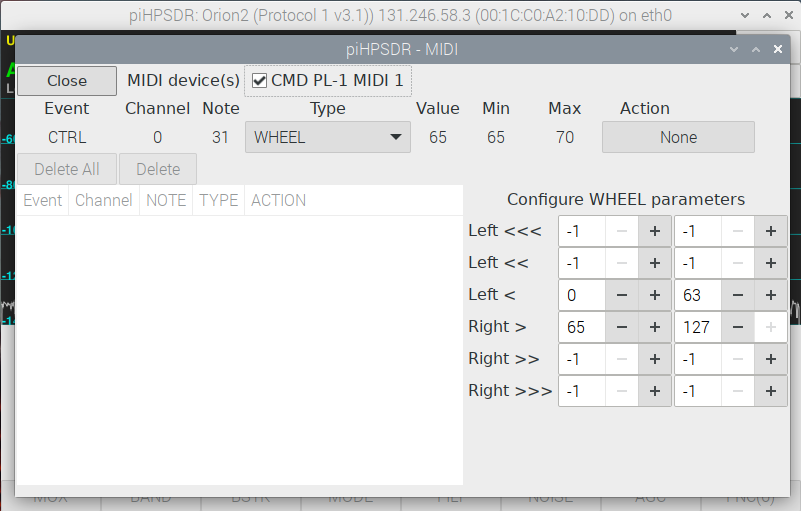
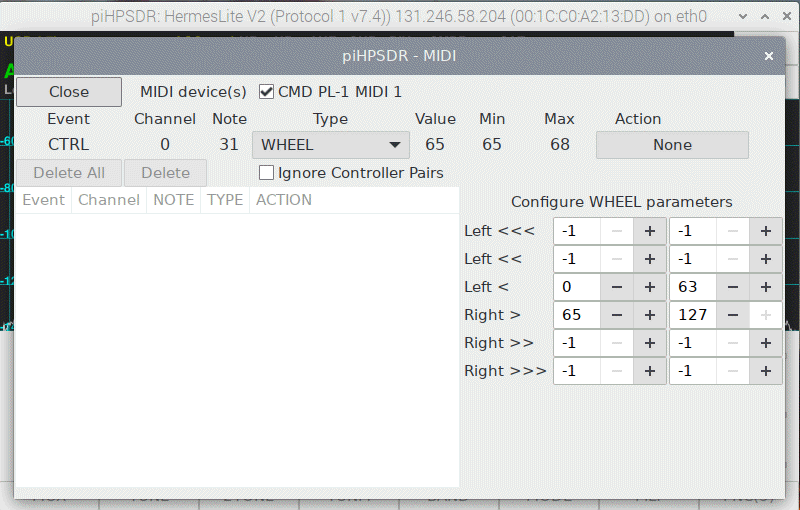
Manual: added secion on the "Ignore Controller Pairs" MIDI option, and made new figures for PureSignal using the new two-tone frequencies.

Changed region(s): [[0.0, 0.0, 1.0, 1.0], [0.75, 0.2059, 0.9375, 0.2941], [0.5625, 0.5, 0.6562, 0.5294]]

diff --git a/release/LatexManual/piHPSDR-Manual.tex b/release/LatexManual/piHPSDR-Manual.tex
@@ -2420,7 +2420,7 @@ two peaks on the TX panadapter during the two-tone experiment.
 \label{fig:PSoff}
 \end{figure}
 
-To demonstrate what happens, I show an example performed with a HermesLite-II
+To demonstrate what happens, I show an example performed with a Hermes\-Lite-II
 radio running P1. Checking both \rett{Enable PS} and
 \rett{Auto Attenuation}, and hitting the \rett{Two Tone} button, it needs only few
 seconds to stabilize and then Fig. \ref{fig:PSnomon} results, where the TX
@@ -2444,9 +2444,9 @@ is shown in Fig. \ref{fig:PSoff}. After hitting that button, IM3 satellites imme
 grow and rise to about $-40$ dbM (which means IM3
 about $-34$ dBc), which is s reflects the intrinsic
 non-linearity of the PA.
- Note that this is a very good value,
+ Note that this is still a quite acceptable value,
 unless you have a class-A amplifier, your PA probably won't be much better.
-This shows that adaptive predistortion is a mechanism that allows you to produce a clean
+This experiment demonstrates that adaptive predistortion is a mechanism that allows you to produce a clean
 signal with a quality that would be impossible (or \textit{very} difficult) to achieve
 with traditional hardware.
 
@@ -3014,6 +3014,22 @@ This way it is possible to run two instances of piHPSDR on the same computer, bo
 connected to different radios, and control them independently with two different MIDI
 consoles. The first thing you have to do is to check all MIDI devices you want to use.
 
+\rett{Ignore Controller Pairs}. This check box  which is un-checked by default
+The MIDI standard offers the possiblity to combine two controllers, one
+(primary one) in the range 0--31 and the other (auxiliary one)
+with a a controller number larger by 32, thus in
+the range 32--63. The value of the auxiliary controller is then interpreted as a
+fine resolution correction of the value of the primary controller. Technically
+speaking,
+a pair of ControllerChange events sets a 14-bit value for the lower controller.
+Some MIDI consoles
+from the music market (for example, the Hercules DJ200 controller)
+use this mechanism. piHPSDR, especially the MIDI menu, gets confused
+by these "controller pairs". Checking the \rett{Ignore Controller Pairs} box just tells
+piHPSDR to ignore MIDI ControllerChange event if the controller number is between 32 and 63.
+As a consequence, only the most signicant 7 bits of the 14-bit value are used, which
+is fine for most applications.
+
 \begin{figure}[ht]
 \center
 \includegraphics[width=12cm]{MIDImenu2.png}
@@ -3021,8 +3037,8 @@ consoles. The first thing you have to do is to check all MIDI devices you want t
 \label{fig:MIDImenu2}
 \end{figure}
 
-It is important to note that as long as the MIDI menu is open, piHPSDR cannot be
-operated through MIDI. Instead all MIDI messages are captured by the menu and
+It is important to note that as long as the MIDI menu is open, the radio cannot be
+operated through MIDI since all MIDI messages are captured by the menu and
 displayed. This is used to implement a ,,self-learning'' configuration. To explain
 this in detail, we demonstrate how to configure MIDI such that the big wheel on the
 controller is used as a VFO knob. After I have activated the checkbox of our
@@ -3079,7 +3095,7 @@ the \bltt{VFO} button, which then becomes highlighted (Fig. \ref{fig:MIDImenu3})
  Then one has to click the OK button to make the choice, and one returns to the
  MIDI menu (see Fig. \ref{fig:MIDImenu4}).
 
-One sees that the choise has entered the MIDI configuration, as documented by the
+One sees that the choice just made has entered the MIDI configuration, as documented by the
 list in the bottom right part of the menu. At this stage, we can continue
 assigning more encoders, potentiometers, or buttons. If we close the menu at
 this point, then the big wheel on the MIDI console can immediately be used
